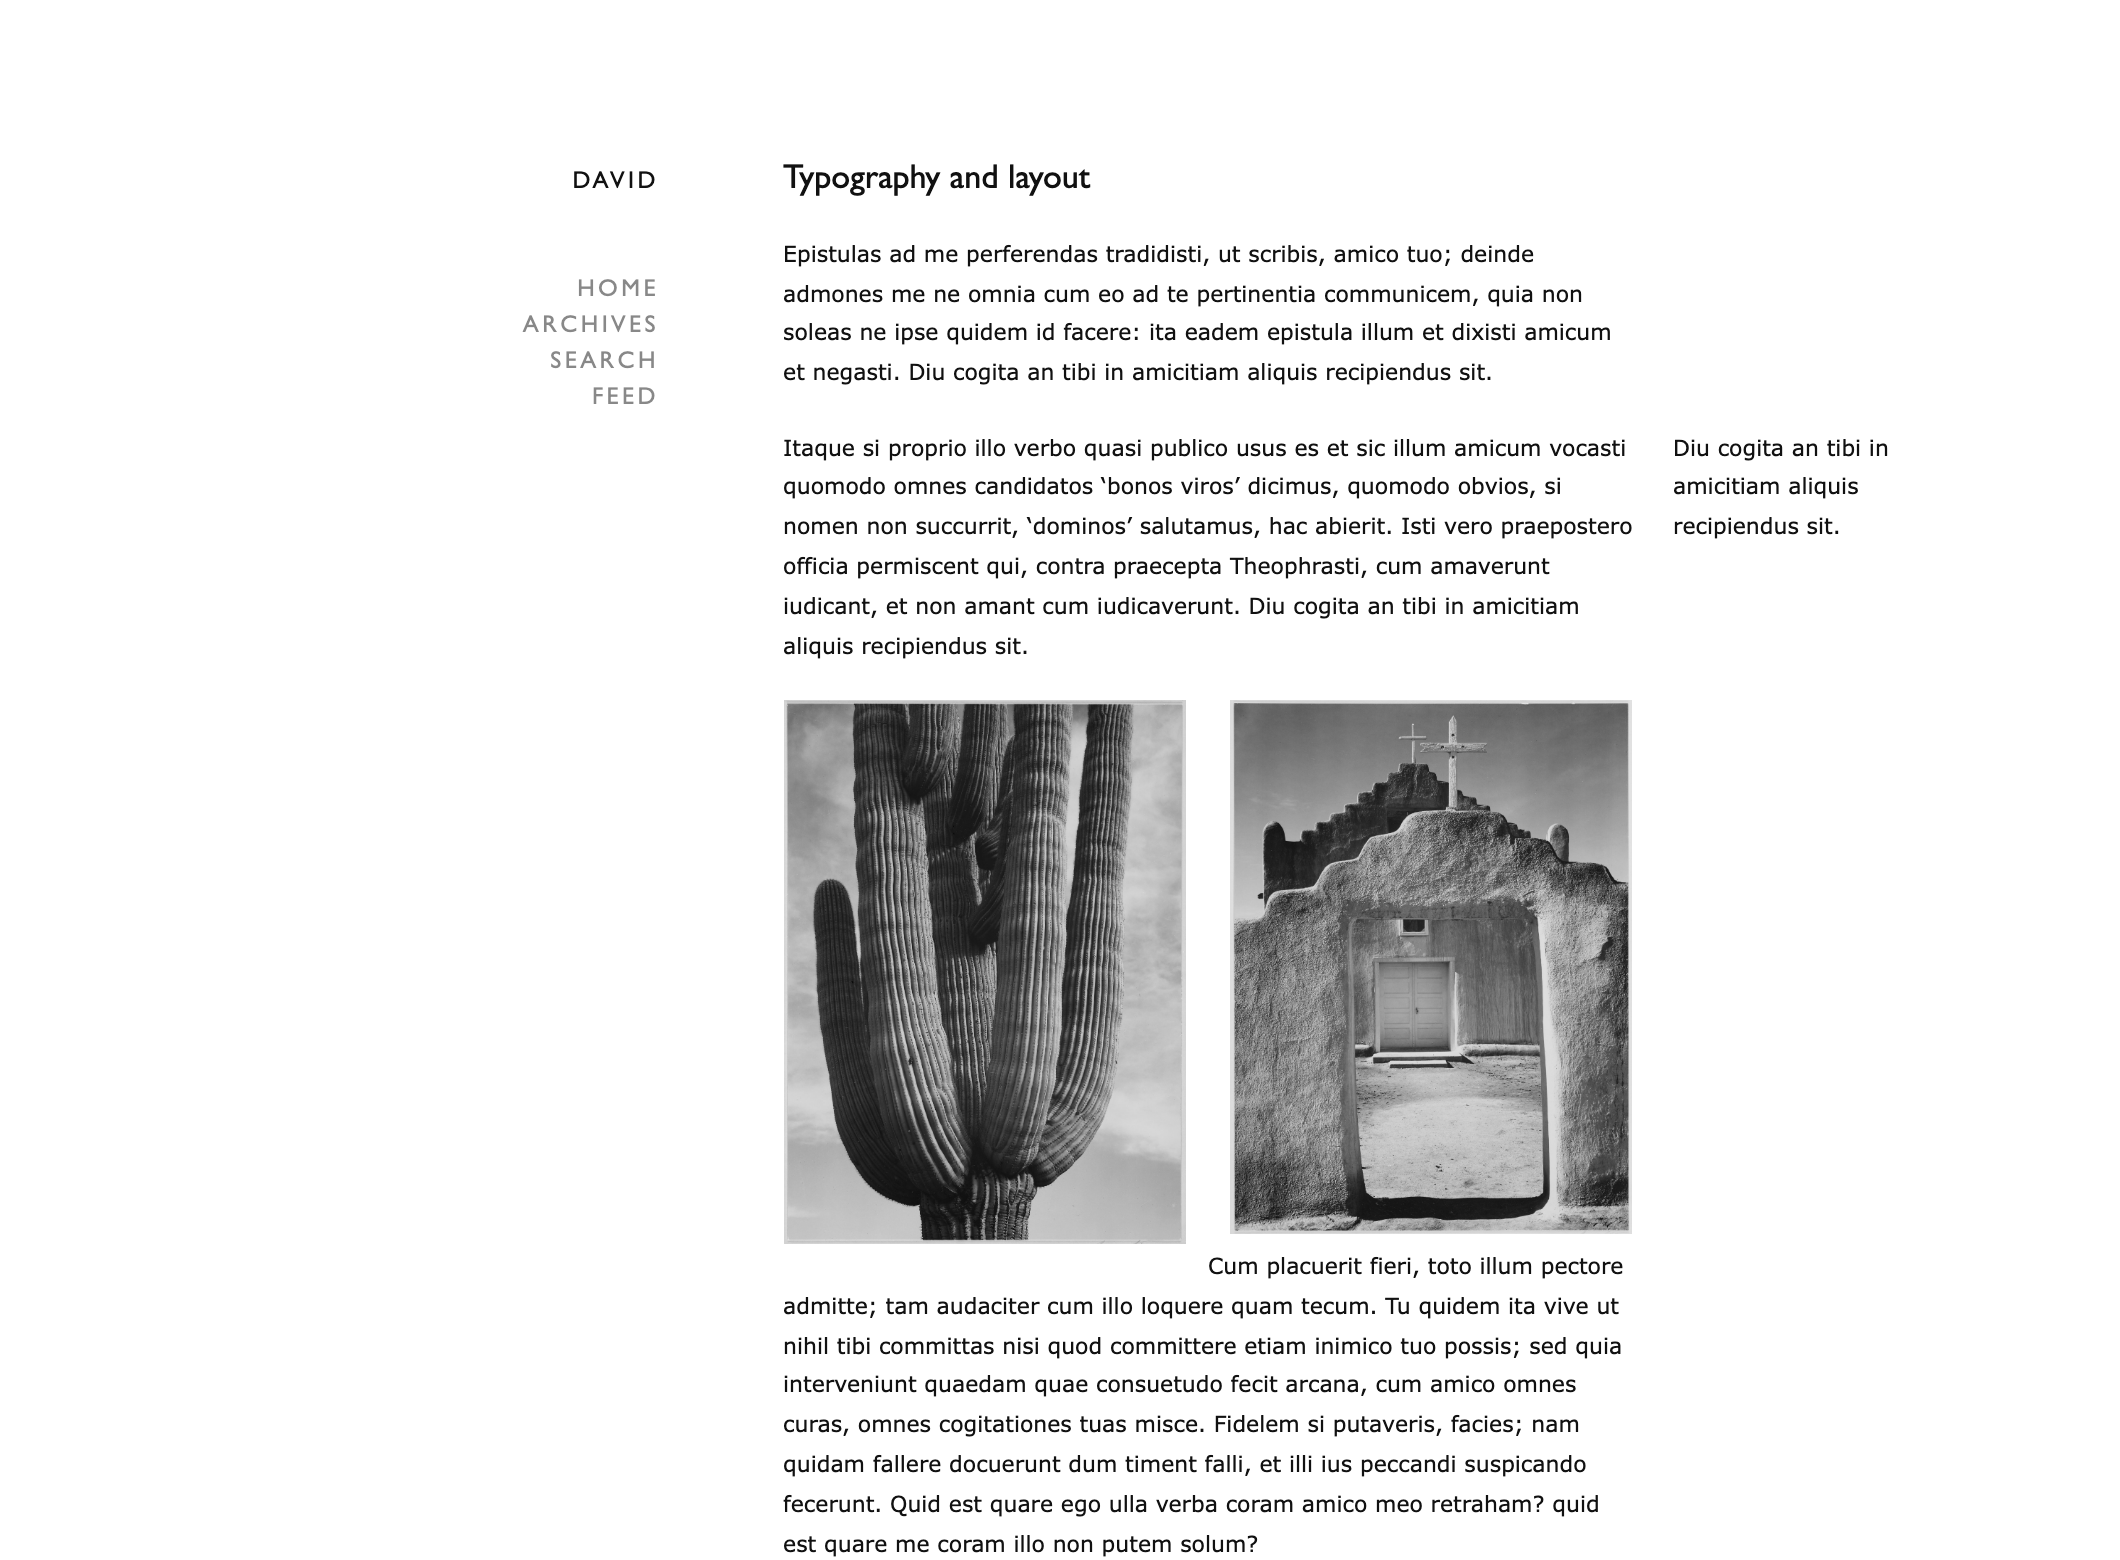
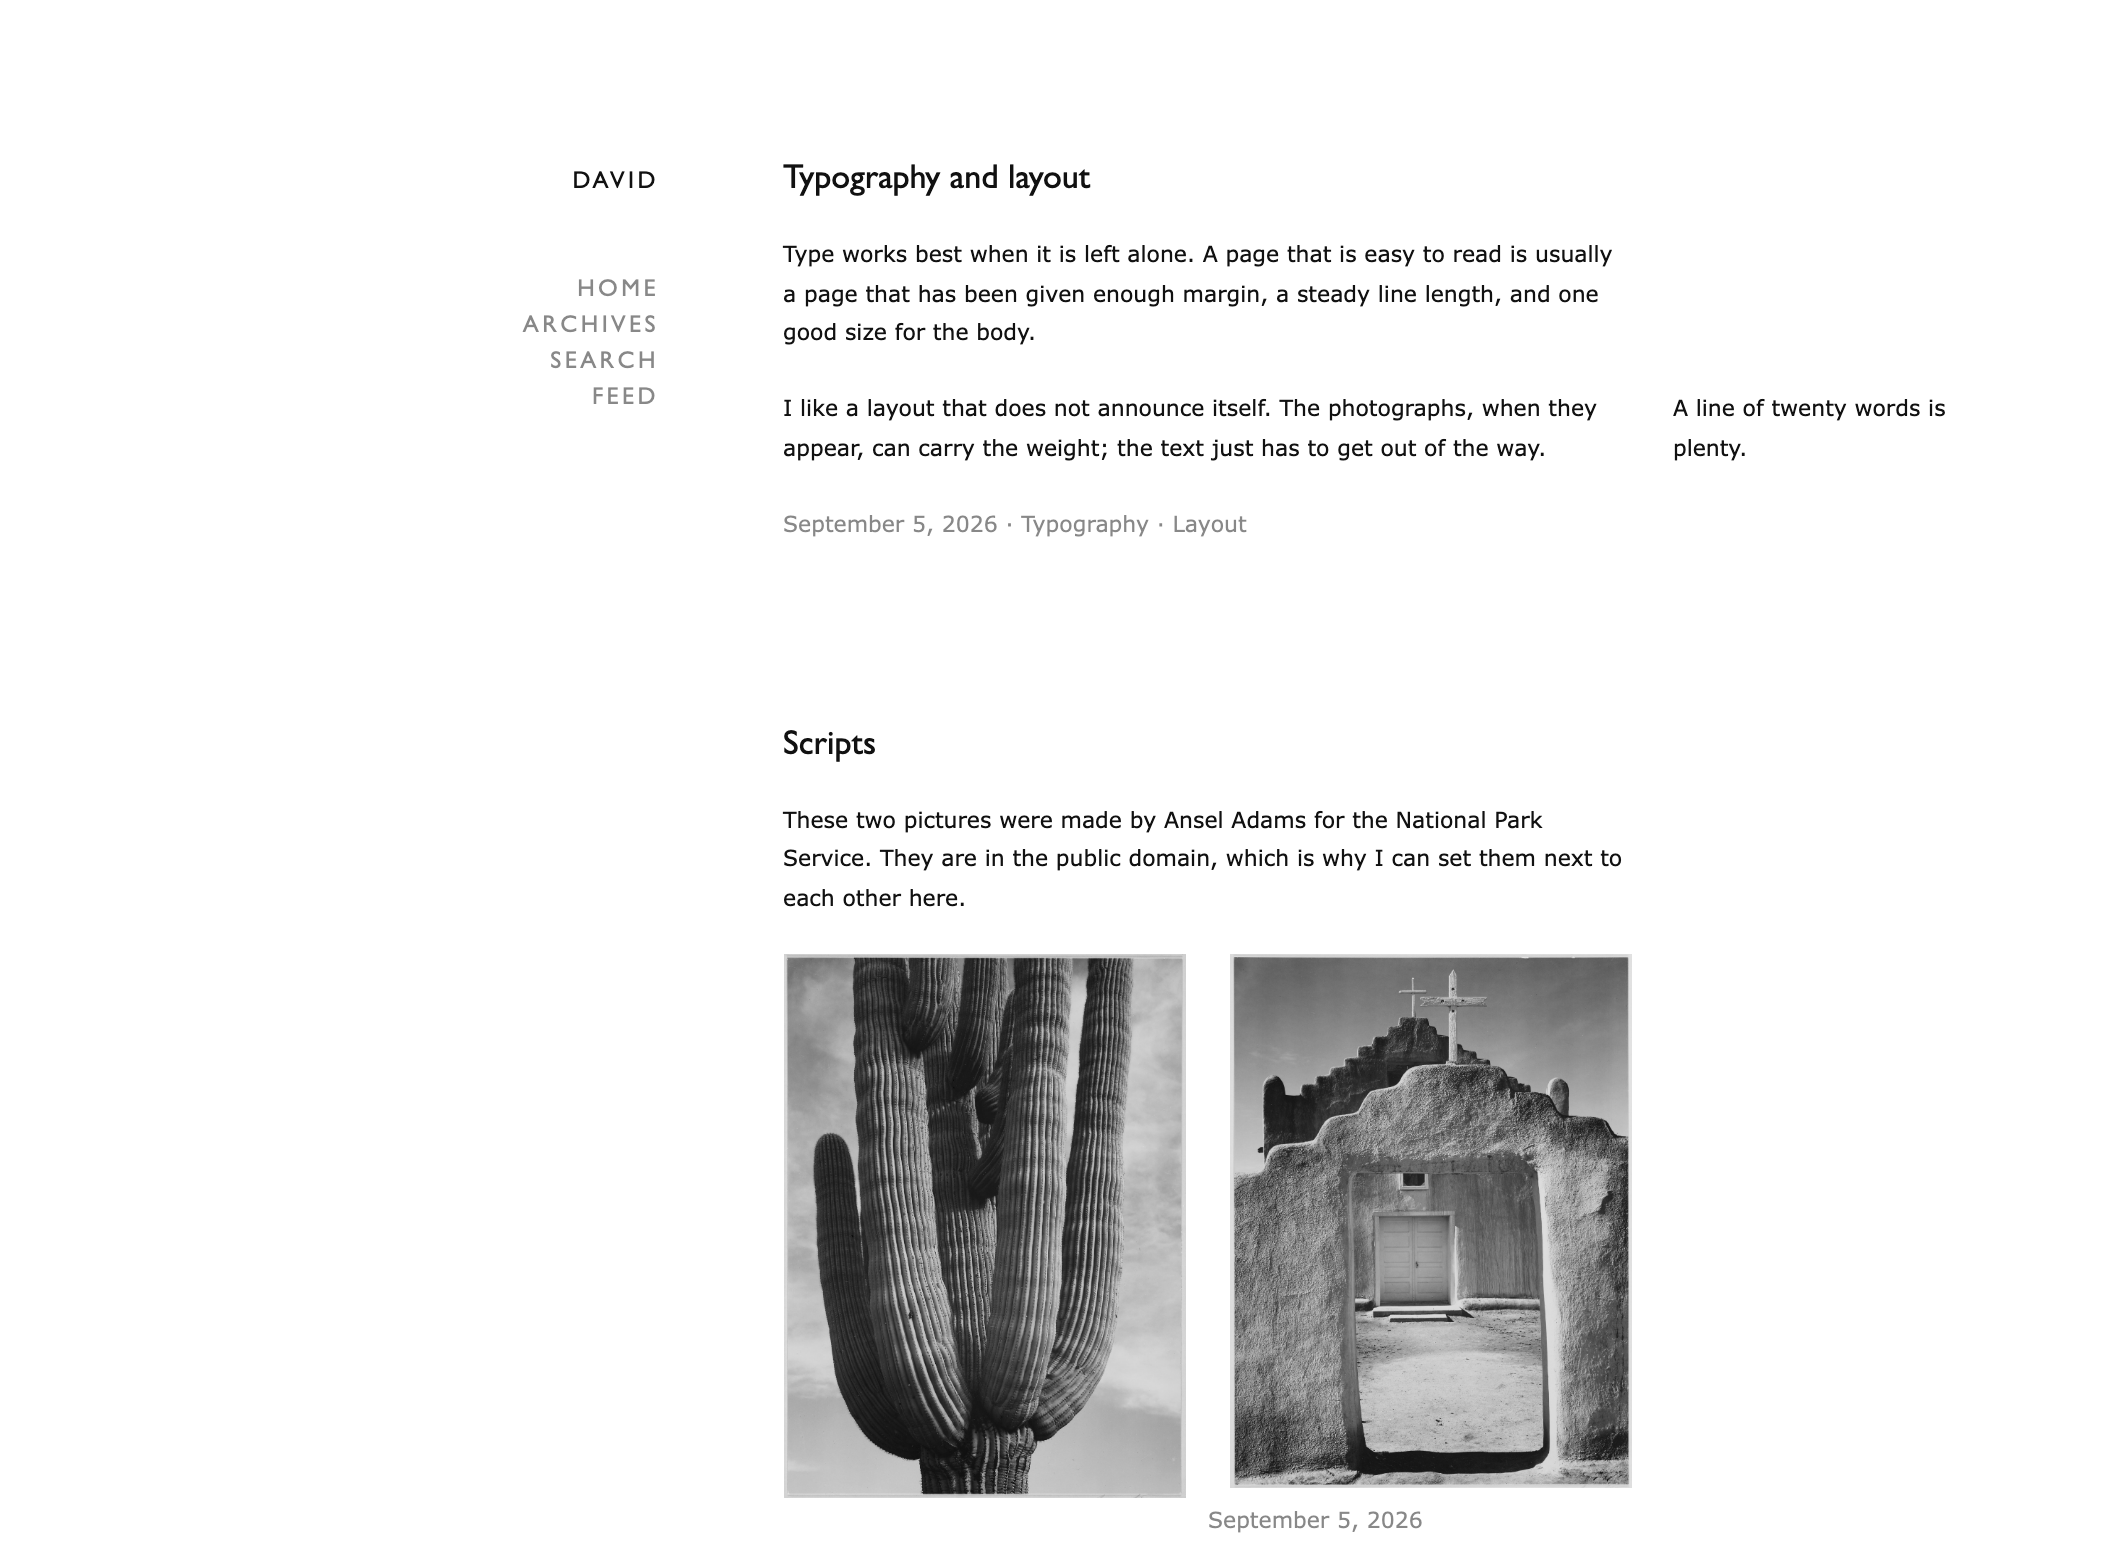
Fix blog template preview and dedicated notes demo

Changed region(s): [[0.3425, 0.1538, 0.9028, 1.0]]

diff --git a/app/templates/source/blog/plugin.css b/app/templates/source/blog/plugin.css
@@ -165,9 +165,18 @@ p, div, section {position: relative;overflow: visible;}
 
 .column.two {width: 50%;padding-right: 11px;}
 
-.column.three {width: 33%;padding-right: 22px;}
-
 .column.two + .column.two {padding: 0 0 0 11px;}
+
+.column.three {width: 33.333333%;padding: 0 16px 0 0;}
+.column.three + .column.three {padding: 0 8px}
+.column.three + .column.three + .column.three {padding: 0 0 0 16px}
+
+.column.four {width: 25%;padding-right: 18px;}
+.column.four + .column.four {padding: 0 12px 0 6px;}
+.column.four + .column.four + .column.four {padding: 0 6px 0 12px;}
+.column.four + .column.four + .column.four + .column.four {padding: 0 0 0 18px;}
+
+.clear {width: 100%;clear: both;float: none;display: block;height: 0}
 
 
 
@@ -176,11 +185,11 @@ p, div, section {position: relative;overflow: visible;}
 
   body {padding: 0 2em;margin: 2em auto;width: auto;}
 
-  .sidebar {position: relative;width: 100%;text-align: center;margin: 0 0 3em}
+  .sidebar {position: relative;width: 100%;text-align: center;margin: 0 0 2.5em}
 
-  .sidebar a {display: inline-block;}
+  .sidebar a {display: inline-block; margin: 0 0.45em;}
 
-  .sidebar .logo {margin: 0;display: block;text-align: center;}
+  .sidebar .logo {margin: 0 0 0.85em;display: block;text-align: center;}
 
   .logo.hasAvatar {word-spacing: 0}
 

diff --git a/app/templates/source/blog/style.css b/app/templates/source/blog/style.css
@@ -147,7 +147,7 @@ hr {
 /* This is used between articles in list view */
 hr.full {
   color: var(--border-color);
-  margin: 7em 0 11em 1em; /* We add 1em to the left due to letter spacing*/
+  margin: 3.5em 0 4.5em 1em; /* We add 1em to the left due to letter spacing*/
   height: 0;
   width: 100%;
   text-align: center;
@@ -156,6 +156,11 @@ hr.full {
 }
 
 hr.full:after {content: "··•··";}
+
+.pagination {
+  text-align: center;
+  margin: 2em 0 3em;
+}
 
 
 

diff --git a/app/templates/source/blog/entries.html b/app/templates/source/blog/entries.html
@@ -21,6 +21,18 @@
 
     {{/posts}}
 
+    {{#pagination}}
+    <div class="pagination">
+      {{#previous}}
+      <a href="/page/{{previous}}">&larr; Newer</a>
+      {{/previous}}
+      Page {{current}} of {{total}}
+      {{#next}}
+      <a href="/page/{{next}}">Older &rarr;</a>
+      {{/next}}
+    </div>
+    {{/pagination}}
+
     <p class="entry" style="text-align:center">View <a href="/archives">the archives</a></p>
 
     {{> footer}}

diff --git a/app/templates/folders/config.js b/app/templates/folders/config.js
@@ -11,6 +11,10 @@ module.exports = {
     title: "David",
     template: "SITE:blog",
   },
+  notes: {
+    title: "David",
+    template: "SITE:blog",
+  },
   documentation: {
     title: "Documentation",
     template: "SITE:documentation",
